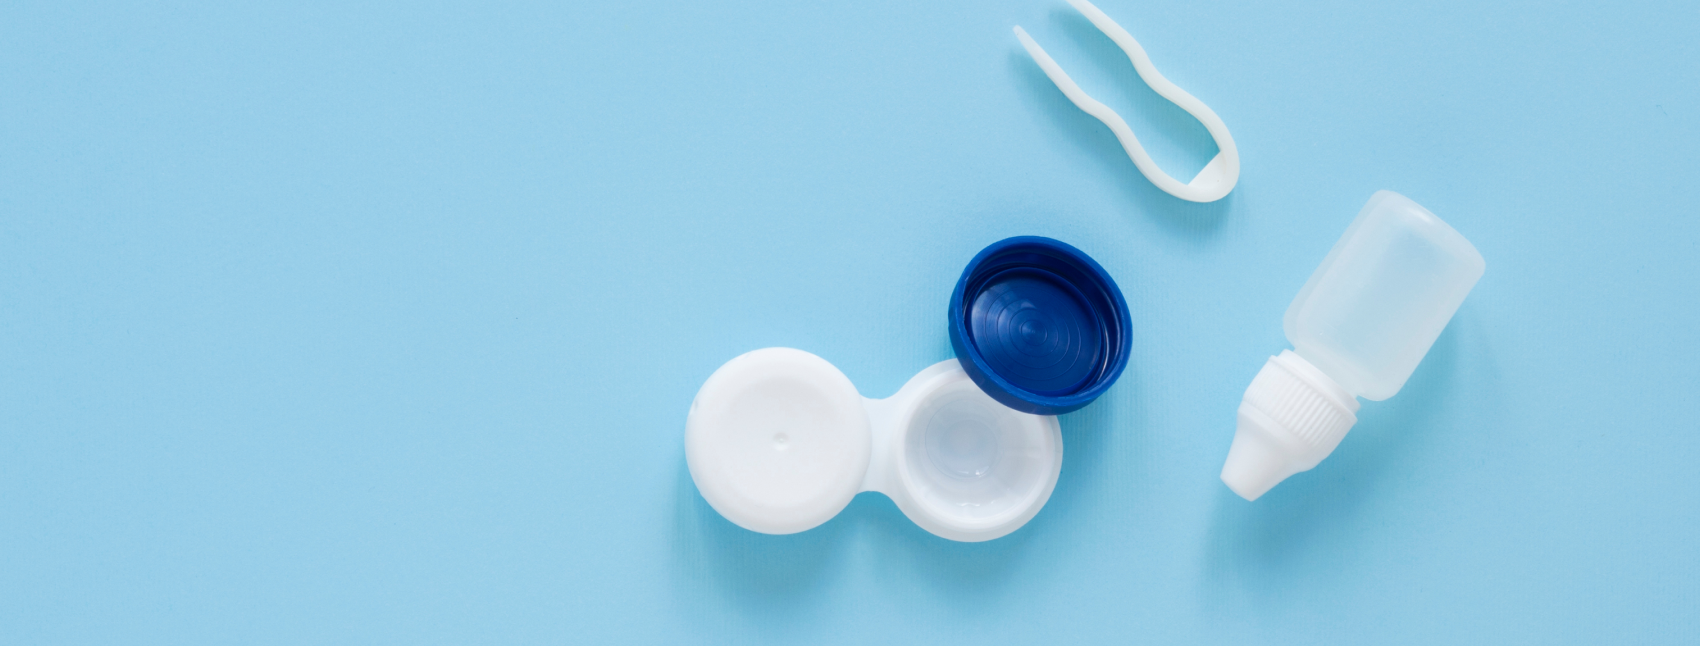
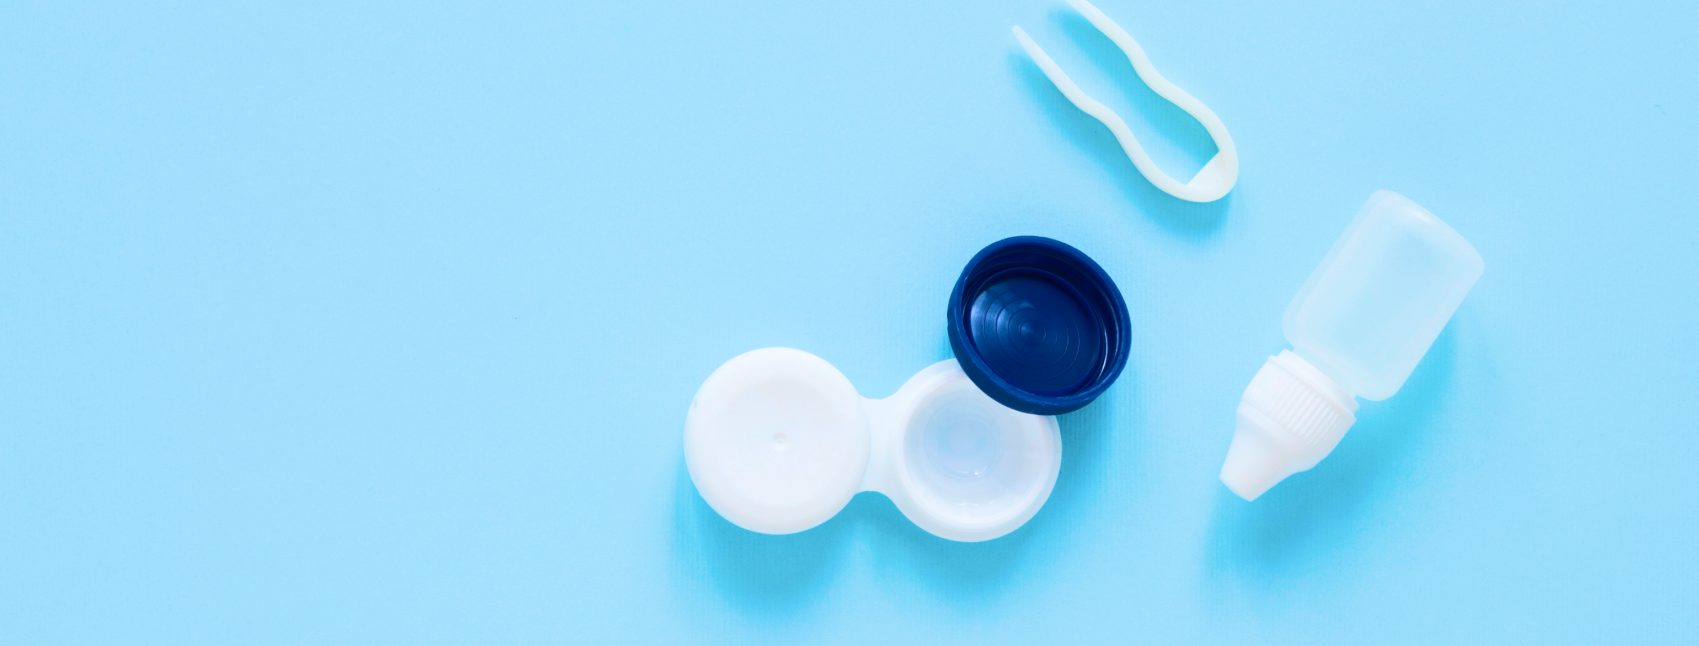
[update] - fix feedbcks homepage

Changed region(s): [[0.3743, 0.0, 1.0, 1.0], [0.9982, 0.3715, 1.0, 0.4025], [0.9982, 0.3096, 1.0, 0.3406]]

diff --git a/src/components/home/_buy-colors.scss b/src/components/home/_buy-colors.scss
@@ -3,37 +3,41 @@
 .buy-colors {
   .colors-ctn {
     padding: 63px 0 80px;
-    .info {
-      margin-top: 90px;
-      h4 {
-        font-style: normal;
-        font-weight: 500;
-        font-size: 16px;
-        line-height: 20px;
-        /* identical to box height */
+    .colors-contact {
+      height: 100%;
+      display: inline-flex;
+      align-items: center;
+      .info {
+        h4 {
+          font-style: normal;
+          font-weight: 500;
+          font-size: 16px;
+          line-height: 20px;
+          /* identical to box height */
 
-        letter-spacing: 0.1em;
-        text-transform: uppercase;
+          letter-spacing: 0.1em;
+          text-transform: uppercase;
 
-        color: #0085ff;
-        margin-bottom: 29px;
+          color: #0085ff;
+          margin-bottom: 29px;
+        }
+        h2 {
+          font-style: normal;
+          font-weight: normal;
+          font-size: 26px;
+          line-height: 36px;
+          /* or 138% */
+
+          letter-spacing: 0.1em;
+          text-transform: uppercase;
+
+          color: #151515;
+        }
       }
-      h2 {
-        font-style: normal;
-        font-weight: normal;
-        font-size: 26px;
-        line-height: 36px;
-        /* or 138% */
-
-        letter-spacing: 0.1em;
-        text-transform: uppercase;
-
-        color: #151515;
-      }
-    }
-    .img-colors {
-      img {
-        width: 100%;
+      .img-colors {
+        img {
+          width: 100%;
+        }
       }
     }
   }

diff --git a/src/components/home/_daily-disposable.scss b/src/components/home/_daily-disposable.scss
@@ -6,31 +6,32 @@
     }
   }
   .daily-ctn {
-    padding: 110px 85px;
-    h4 {
-      font-style: normal;
-      font-weight: 500;
-      font-size: 16px;
-      line-height: 20px;
-      /* identical to box height */
-
-      letter-spacing: 0.1em;
-      text-transform: uppercase;
-
-      color: #0085ff;
-      margin-bottom: 29px;
-    }
-    h2 {
-      font-style: normal;
-      font-weight: normal;
-      font-size: 26px;
-      line-height: 36px;
-      /* or 138% */
-
-      letter-spacing: 0.1em;
-      text-transform: uppercase;
-
-      color: #151515;
+    height: 100%;
+    display: inline-flex;
+    align-items: center;
+    .info{
+      padding: 0 85px;
+      h4 {
+        font-style: normal;
+        font-weight: 500;
+        font-size: 16px;
+        line-height: 20px;
+        /* identical to box height */
+        letter-spacing: 0.1em;
+        text-transform: uppercase;
+        color: #0085ff;
+        margin-bottom: 29px;
+      }
+      h2 {
+        font-style: normal;
+        font-weight: normal;
+        font-size: 26px;
+        line-height: 36px;
+        /* or 138% */
+        letter-spacing: 0.1em;
+        text-transform: uppercase;
+        color: #151515;
+      }
     }
   }
 }

diff --git a/src/components/home/_partners.scss b/src/components/home/_partners.scss
@@ -37,13 +37,13 @@
     .partner-item {
       border-radius: 30px;
       .item-ctn {
-        // background: rgba(0, 72, 138, 0.39);
+        background: rgba(91, 123, 152, 0.35);
         // mix-blend-mode: overlay;
         padding: 80px 21px 30px;
         border-radius: 30px;
-        background: #00488a;
-        mix-blend-mode: overlay;
-        opacity: 0.4;
+        // background: #00488a;
+        // mix-blend-mode: overlay;
+        // opacity: 0.4;
         h2 {
           font-style: normal;
           font-weight: 500;
@@ -104,7 +104,7 @@
     display: inline-block;
     width: 100%;
     overflow: hidden;
-    background: #0085ff;
+    background: #7ED9F7;
     margin-top: -100px;
   }
 }

diff --git a/src/components/home/BuyColorsContact.jsx b/src/components/home/BuyColorsContact.jsx
@@ -11,9 +11,11 @@ class BuyColorsContact extends React.Component {
           <div className="colors-ctn">
             <Row gutter={24}>
               <Col md={12}>
-                <div className="info">
-                  <h4>BUY COLOR CONTACT LENSES</h4>
-                  <h2>DESIGNED WITH YOUR TOTAL EYEWEAR EXPERIENCE IN MIND</h2>
+                <div className="colors-contact">
+                  <div className="info">
+                    <h4>BUY COLOR CONTACT LENSES</h4>
+                    <h2>DESIGNED WITH YOUR TOTAL EYEWEAR EXPERIENCE IN MIND</h2>
+                  </div>
                 </div>
               </Col>
               <Col md={12}>

diff --git a/src/components/home/Banner.jsx b/src/components/home/Banner.jsx
@@ -13,7 +13,7 @@ class Banner extends React.Component {
     return (
       <div className="home-banner">
         <Row gutter={0}>
-          <Col md={19}>
+          <Col lg={18} xl={19}>
             <div className="welcome">
               <div className="welcome-ctn">
                 <h4>Welcome</h4>
@@ -22,7 +22,7 @@ class Banner extends React.Component {
               </div>
             </div>
           </Col>
-          <Col md={5}>
+          <Col lg={6} xl={5}>
             <div className="options">
               <div className="option-item">
                 <img

diff --git a/src/components/home/DailyDisposable.jsx b/src/components/home/DailyDisposable.jsx
@@ -15,8 +15,10 @@ class DailyDisposable extends React.Component {
           </Col>
           <Col md={12}>
             <div className="daily-ctn">
-              <h4>DAILY DISPOSABLE</h4>
-              <h2>DESIGNED WITH YOUR TOTAL EYEWEAR EXPERIENCE IN MIND</h2>
+              <div className="info">
+                <h4>DAILY DISPOSABLE</h4>
+                <h2>DESIGNED WITH YOUR TOTAL EYEWEAR EXPERIENCE IN MIND</h2>
+              </div>
             </div>
           </Col>
         </Row>

diff --git a/src/components/layouts/header/_index.scss b/src/components/layouts/header/_index.scss
@@ -68,3 +68,32 @@
     }
   }
 }
+
+
+// responsive
+@media(max-width: 1024px){
+  .header-page{
+    .header-ctn{
+      padding: 5px 0;
+      .nav-header{
+        li{
+          a{
+            font-size: 12px;
+            height: 48px;
+            padding: 0 10px;
+          }
+        }
+      }
+      .logo-main{
+        a{
+          height: auto;
+          width: 200px;
+          line-height: 27px;
+          img{
+
+          }
+        }
+      }
+    }
+  }
+}

diff --git a/src/components/home/_banner.scss b/src/components/home/_banner.scss
@@ -5,9 +5,13 @@
     center;
   background-size: cover;
   .welcome {
+    height: 100%;
+    display: inline-flex;
+    align-items: center;
+    width: 100%;
     .welcome-ctn {
       width: 70%;
-      margin: 100px auto;
+      margin: 0 auto;
       h4 {
         font-style: normal;
         font-weight: 500;
@@ -84,5 +88,11 @@
         margin-bottom: 0;
       }
     }
+  }
+}
+
+@media(max-width: 1024px){
+  .home-banner{
+
   }
 }

diff --git a/src/assets/scss/_main.scss b/src/assets/scss/_main.scss
@@ -56,6 +56,12 @@ h1,h2,h3,h4,h5,h6,p,a,button,input,label,i,table,th,td,tr,span {
   }
 }
 
+@media (max-width: 1024px){
+  .main-layout{
+    margin-top: 74px;
+  }
+}
+
 @media (max-width: 767px){
   .container{
     max-width: 720px;
